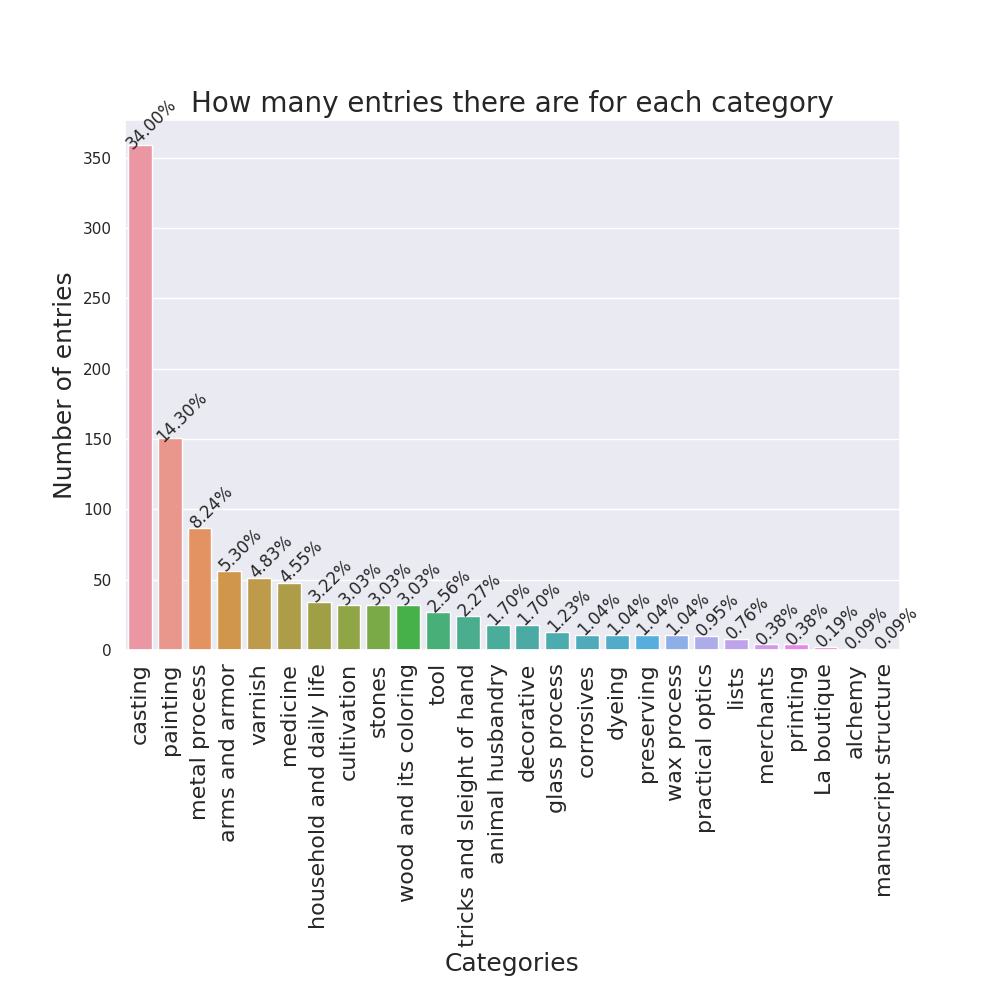
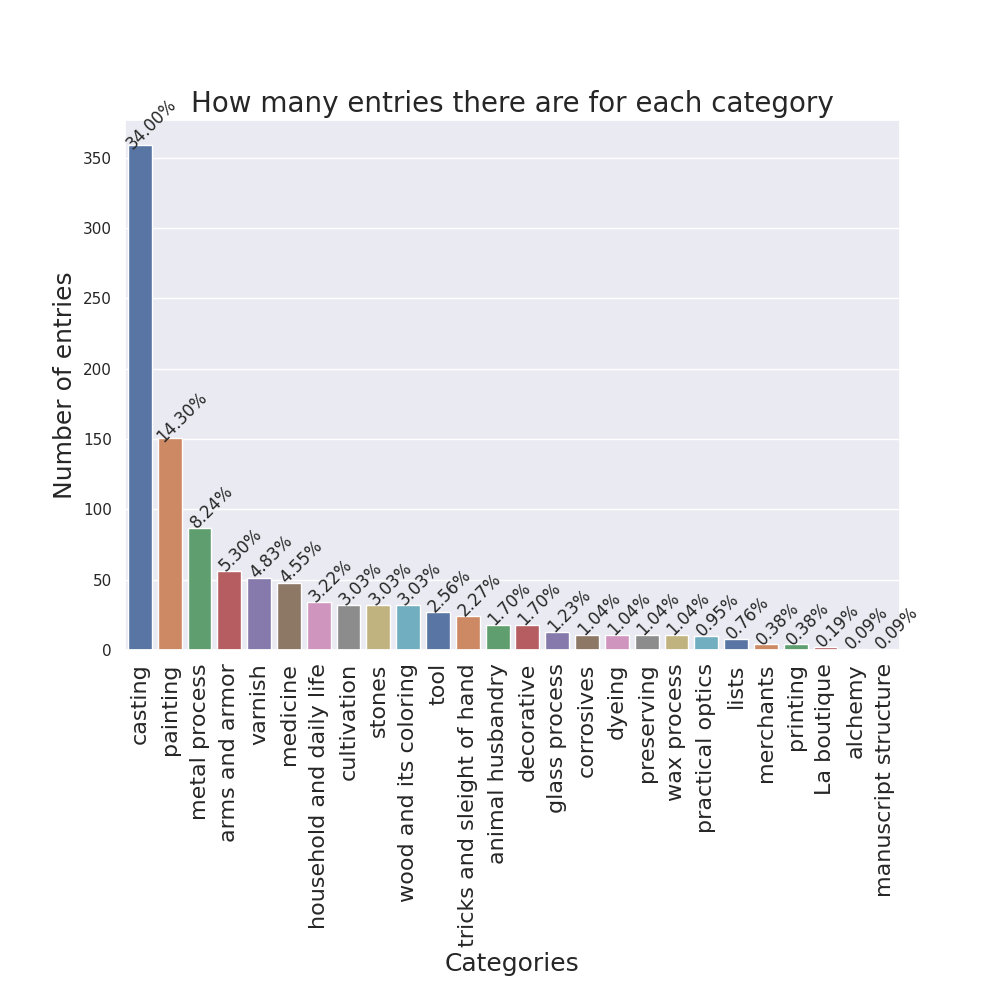
added tags_barplot + closed plt plots

Changed region(s): [[0.124, 0.124, 0.775, 0.651]]

diff --git a/manuscript_visualizations.py b/manuscript_visualizations.py
@@ -61,6 +61,7 @@ def tags_scatterplot(search_tags, filename, title):
 
     fig = scatter.get_figure()
     fig.savefig(f"{viz_path}{filename}.png")
+    plt.close()
 
 
 def tags_bubbleplot(search_tags, filename, title, normalized):
@@ -126,6 +127,7 @@ def tags_bubbleplot(search_tags, filename, title, normalized):
 
     fig = bubbleplot.get_figure()
     fig.savefig(f"{viz_path}{filename}.png")
+    plt.close()
 
 
 def categories_barplot():
@@ -161,7 +163,7 @@ def categories_barplot():
     plt.subplots(figsize = (10, 10))
     plt.gcf().subplots_adjust(bottom = 0.35)
     barplt = sns.barplot(x = "categories", y = "counts", data = df,
-                         order = cat_order)
+                         order = cat_order, palette = "deep")
 
     total_sum = sum(counts)
     for p in barplt.patches:
@@ -177,6 +179,87 @@ def categories_barplot():
     barplt.set_xticklabels(barplt.get_xticklabels(), rotation = 90, fontsize = 16)
     fig = barplt.get_figure()
     fig.savefig(viz_path + "categories_barplot.png")
+    plt.close()
+
+
+def tags_barplot(search_tags, filename, title, stacked):
+    manuscript_version = "tl" # "tl", "tc" or "tcn"
+
+    tags = []
+    categories = []
+
+    all_entries = []
+    all_entry_categories = []
+
+    entry = None
+
+    for i in range(0, 340):
+        number = format(i//2 + 1, '03')
+        side = "r" if (i % 2 == 0) else "v"
+
+        folio = f'{manuscript_version}_p{number}{side}_preTEI'
+        input_filename = f'{m_path}/ms-xml/{manuscript_version}/{folio}.xml'
+
+        tree = etree.parse(input_filename)
+
+        for div in tree.findall(".//div"):
+            new_entry = div.get("id")
+            if new_entry != None:
+                entry = new_entry
+            if entry == None:
+                continue
+
+            entry_text = etree.tostring(div, method = "xml", encoding="UTF-8").decode('utf-8')
+
+            category_list = div.get("categories")
+            if isinstance(category_list, str):
+                category_list = category_list.split(";")
+            if category_list == None:
+                # find the categories if this entry was already seen
+                category_list = []
+                for j in range(len(all_entries)):
+                    if all_entries[j] == entry:
+                        category_list.append(all_entry_categories[j])
+            else:
+                if entry not in all_entries:
+                    for cat in category_list:
+                        all_entries.append(entry)
+                        all_entry_categories.append(cat)
+
+            for tag in search_tags:
+                count = entry_text.count(tag)
+                for j in range(int(count)):
+                    for cat in category_list:
+                        tags.append(tag.replace("<", "").replace(">", ""))
+                        categories.append(cat)
+
+    df = pandas.DataFrame({"tags": tags, "categories": categories})
+
+    plt.subplots(figsize = (10, 10))
+    plt.gcf().subplots_adjust(bottom = 0.35)
+    if stacked:
+        barplt = sns.countplot(x = "categories", data = df,
+                               order = all_categories, palette = "deep")
+        total_sum = len(tags)
+        for p in barplt.patches:
+            nb = format(p.get_height()/total_sum*100, '.2f')
+            barplt.annotate(nb + "%", (p.get_x() + p.get_width()/2, p.get_height()),
+                            ha = 'center', va = 'center', xytext = (0, 25),
+                            textcoords = 'offset points', rotation = 90,
+                            fontsize = 12)
+    else:
+        barplt = sns.countplot(x = "categories", hue = "tags", data = df,
+                               order = all_categories)
+        barplt.legend(fancybox = True)
+
+    barplt.set_ylabel("Count", fontsize = 18)
+    barplt.set_xlabel("Categories", fontsize = 18)
+    barplt.set_title(title, fontsize = 20)
+
+    barplt.set_xticklabels(barplt.get_xticklabels(), rotation = 90, fontsize = 16)
+    fig = barplt.get_figure()
+    fig.savefig(viz_path + filename)
+    plt.close()
 
 
 def entries_lengths_scatterplot(logscale):
@@ -276,6 +359,7 @@ def entries_lengths_scatterplot(logscale):
             fig.savefig(f"{viz_path}entries_lengths_scatterplot_logscale_{manuscript_version}.png")
         else:
             fig.savefig(f"{viz_path}entries_lengths_scatterplot_linearscale_{manuscript_version}.png")
+        plt.close()
 
 
 def entries_lengths_distplot():
@@ -330,6 +414,7 @@ def entries_lengths_distplot():
 
         fig = distplt.get_figure()
         fig.savefig(f"{viz_path}entries_lengths_distplot_{manuscript_version}.png")
+        plt.close()
 
 
 def tags_by_category_swarmplot(search_tags, filename, title):
@@ -431,6 +516,7 @@ def tags_by_category_swarmplot(search_tags, filename, title):
 
     fig = swarm.get_figure()
     fig.savefig(f"{viz_path}{filename}.png")
+    plt.close()
 
 
 viz_path = f'{m_path}/manuscript-object/manuscript_visualizations/'
@@ -439,7 +525,9 @@ if not os.path.exists(viz_path):
     os.mkdir(viz_path)
 
 language_tags = ["<fr>", "<el>", "<it>", "<la>", "<oc>", "<po>"]
+languages = ["French", "Greek", "Italian", "Latin", "Occitan", "Poitevin"]
 margin_types = ["left-bottom", "right-bottom", "bottom", "right-middle", "left-middle", "right-top", "left-top", "top"]
+semantic_tags = []
 
 #tags_scatterplot(language_tags, "languages_scatterplot", title)
 
@@ -455,6 +543,16 @@ tags_bubbleplot(margin_types, "margins_bubbles_normalized", "Margins in the manu
 print("Bubbleplots finished.")
 
 categories_barplot()
+
+tags_barplot(["<del>", "<add>"], "add_del_barplot", "Additions and deletions by the author-practitioner", False)
+tags_barplot(["<add>"], "add_barplot", "Additions by the author-practitioner", True)
+tags_barplot(["<del>"], "del_barplot", "Deletions by the author-practitioner", True)
+tags_barplot(margin_types, "margins_barplot", "Margins in the manuscript", True)
+
+for i in range(len(language_tags)):
+    tag = language_tags[i]
+    language = languages[i]
+    tags_barplot([tag], tag + "_barplot", language + " in the manuscript", True)
 
 print("Barplots finished.")
 

diff --git a/context_viz.py b/context_viz.py
@@ -188,6 +188,7 @@ def create_symmetrical_heatmap(data, manuscript_version):
     heatmap.set_yticklabels(legend, size = 16)
     fig = heatmap.get_figure()
     fig.savefig(viz_path + "symmetrical_heatmap.png")
+    plt.close()
 
 
 # symmetrical heatmap visualizing the differences between versions
@@ -222,6 +223,7 @@ def create_symmetrical_diff_heatmap(v1, v2, data1, data2):
     heatmap.set_yticklabels(legend, size = 16)
     fig = heatmap.get_figure()
     fig.savefig(viz_path + v1 + "-" + v2 + "_diff_symmetrical_heatmap.png")
+    plt.close()
 
 
 # Generate the matrix used for asymmetrical heatmaps
@@ -280,6 +282,7 @@ def create_asymmetrical_heatmap(data, manuscript_version):
     heatmap.set_yticklabels(legend, size = 16)
     fig = heatmap.get_figure()
     fig.savefig(viz_path + "asymmetrical_heatmap.png")
+    plt.close()
 
 
 # asymmetrical heatmap visualizing the differences between versions
@@ -314,6 +317,7 @@ def create_asymmetrical_diff_heatmap(v1, v2, data1, data2):
     heatmap.set_yticklabels(legend, size = 16)
     fig = heatmap.get_figure()
     fig.savefig(viz_path + v1 + "-" + v2 + "_diff_asymmetrical_heatmap.png")
+    plt.close()
 
 
 # barplot visualization
@@ -358,6 +362,7 @@ def create_barplot(data, manuscript_version, normalized):
     barplt.set(yscale = "log")
     fig = barplt.get_figure()
     fig.savefig(viz_path + "barplot" + filename_appendix + ".png")
+    plt.close()
 
 
 # grouped barplot visualization
@@ -411,6 +416,7 @@ def create_grouped_barplot(data, normalized):
     barplt.set(yscale = "log")
     fig = barplt.get_figure()
     fig.savefig(viz_path + "grouped_barplot" + filename_appendix + ".png")
+    plt.close()
 
 
 
@@ -437,7 +443,7 @@ for i in range(len(manuscript_versions)):
     create_barplot([all_context_without_duplicates[i], all_items[i]], v, True)
     create_barplot([all_context_without_duplicates[i], all_items[i]], v, False)
 
-    print(v + " visualizations complete")
+    print(v + " visualizations finished.")
 
 viz_path = f'{m_path}/manuscript-object/context_visualizations/comparisons/'
 
@@ -452,11 +458,11 @@ create_asymmetrical_diff_heatmap("tc", "tcn", all_context_without_duplicates[0],
 create_asymmetrical_diff_heatmap("tc", "tl", all_context_without_duplicates[0], all_context_without_duplicates[2])
 create_asymmetrical_diff_heatmap("tcn", "tl", all_context_without_duplicates[1], all_context_without_duplicates[2])
 
-print("difference heatmaps complete")
+print("difference heatmaps finished.")
 
 create_grouped_barplot([all_context_without_duplicates, all_items], True)
 create_grouped_barplot([all_context_without_duplicates, all_items], False)
 
-print("grouped barplots complete")
+print("grouped barplots finished.")
 
 print("All done!")
